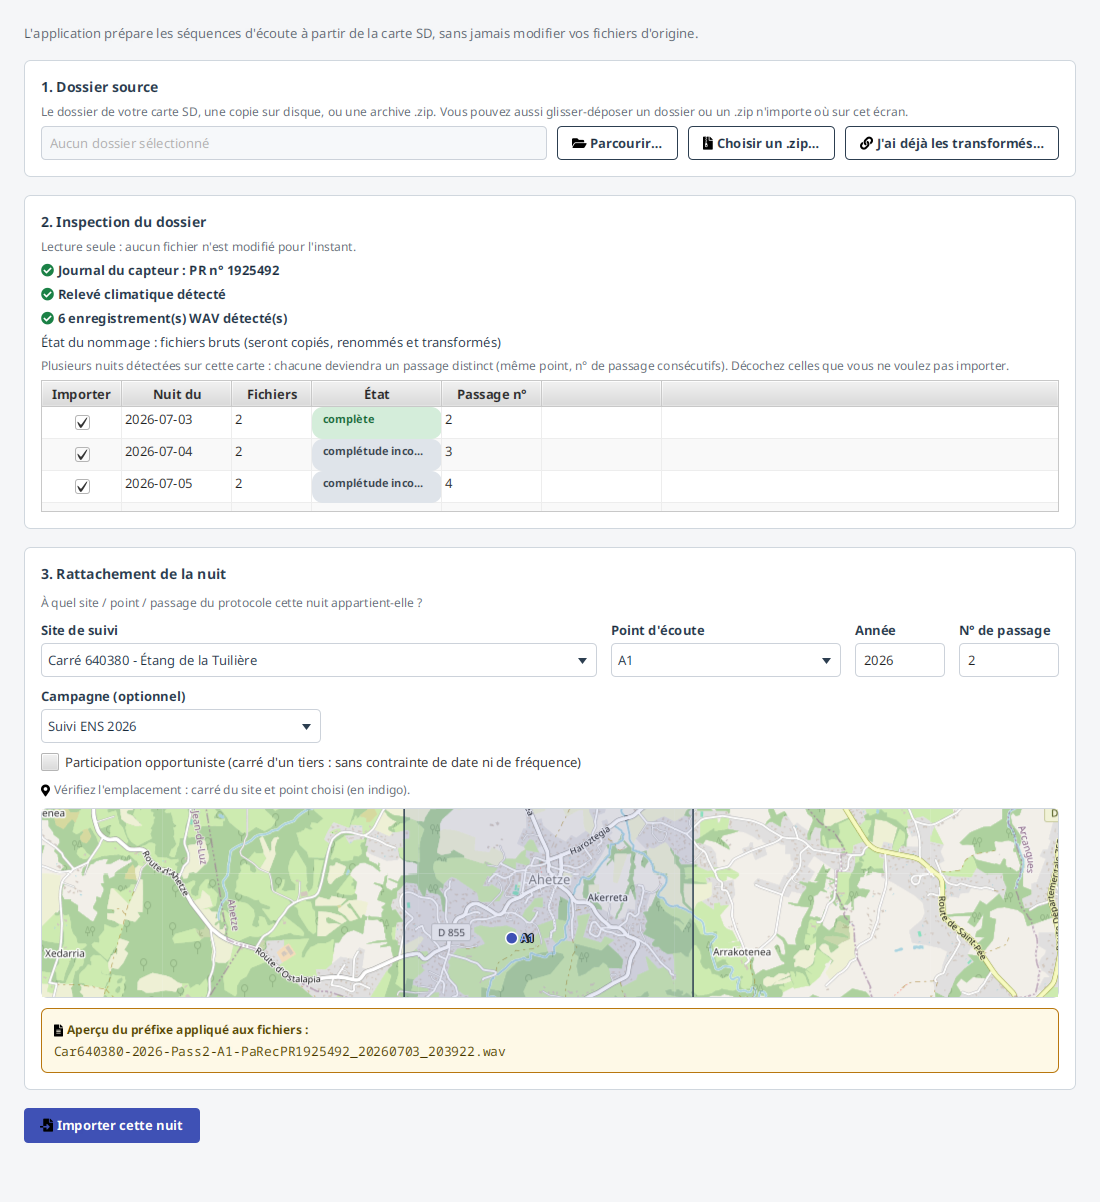
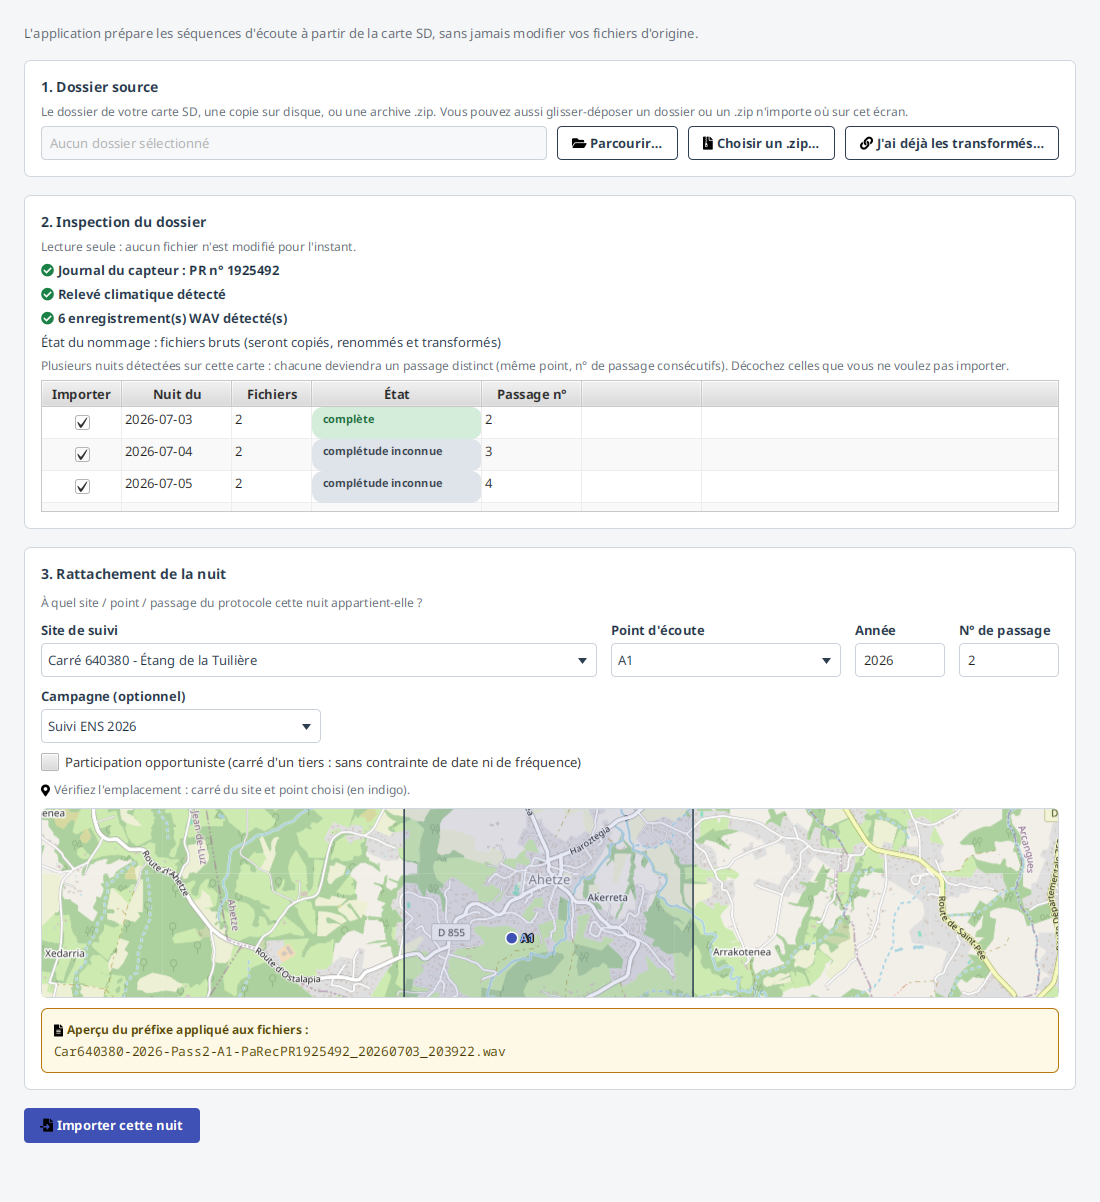
fix(importation): afficher le badge de complétude en entier (#5510)
La table des nuits tronquait « complétude inconnue » en « complétude
inco... », ce qui le rendait difficile à distinguer d'une nuit
incomplète. La colonne État laisse maintenant le libellé entier visible
sans survol.

Le test JavaFX vérifie les trois libellés attendus, leur texte
réellement dessiné et la largeur disponible entre les marges de chaque
cellule. Il reproduit la troncature avec l'ancienne largeur. La page de
retour utilisateur décrit désormais le correctif et précise que le clip
antérieur conserve l'ancien rendu. Tests TableNuitsTest, NuitVMBadgeTest
et ZoneNuitsTest validés ; batterie locale : 56 gardes, aucun refus.
Capture d'import régénérée et inspectée.

Closes #5111
Rattaché à #5504.

| Avant | Après |
|---|---|
| ![Le badge est
tronqué](https://github.com/echonuit/vigiechiro-pr-companion/blob/8d2353d5a233b17e714928ecd810321396523b89/.github/assets/apercu-import-multi-nuits.png?raw=true)
| ![Le badge est entièrement
lisible](https://github.com/echonuit/vigiechiro-pr-companion/blob/0870c2ada/.github/assets/apercu-import-multi-nuits.png?raw=true)
|

La colonne État montre « complétude inconnue » en entier dans les deux
lignes concernées.

Changed region(s): [[0.3709, 0.3078, 0.4945, 0.4309], [0.34, 0.3078, 0.3709, 0.3386]]

diff --git a/src/test/java/fr/univ_amu/iut/importation/view/TableNuitsTest.java b/src/test/java/fr/univ_amu/iut/importation/view/TableNuitsTest.java
@@ -1,0 +1,60 @@
+package fr.univ_amu.iut.importation.view;
+
+import static org.assertj.core.api.Assertions.assertThat;
+
+import fr.univ_amu.iut.commun.model.Completude;
+import fr.univ_amu.iut.commun.view.Habillage;
+import fr.univ_amu.iut.importation.model.NuitDetectee;
+import fr.univ_amu.iut.importation.viewmodel.NuitVM;
+import java.time.LocalDate;
+import java.util.List;
+import javafx.collections.FXCollections;
+import javafx.scene.Scene;
+import javafx.scene.control.TableCell;
+import javafx.scene.layout.StackPane;
+import javafx.scene.text.Text;
+import org.junit.jupiter.api.Test;
+import org.junit.jupiter.api.extension.ExtendWith;
+import org.testfx.framework.junit5.ApplicationExtension;
+
+/// Vérifie le texte dessiné dans les cellules : leur valeur peut être entière malgré une ellipse.
+@ExtendWith(ApplicationExtension.class)
+class TableNuitsTest {
+
+    @Test
+    void les_trois_completudes_restent_lisibles() {
+        LocalDate date = LocalDate.of(2026, 7, 3);
+        var nuits = FXCollections.<NuitVM>observableArrayList();
+        for (Completude etat : Completude.values()) {
+            nuits.add(new NuitVM(new NuitDetectee(
+                    date, date.atTime(21, 0), date.plusDays(1).atTime(6, 0), List.of(), etat, null, List.of())));
+        }
+        var table = TableNuits.creer(nuits);
+        StackPane racine = new StackPane(table);
+        Scene scene = Habillage.scene(racine);
+        racine.resize(1020, 180);
+        scene.getRoot().applyCss();
+        scene.getRoot().layout();
+
+        var cellules = table.lookupAll(".table-cell").stream()
+                .filter(TableCell.class::isInstance)
+                .map(TableCell.class::cast)
+                .filter(cellule -> cellule.getStyleClass().contains("badge") && !cellule.isEmpty())
+                .toList();
+        assertThat(cellules)
+                .extracting(cellule -> cellule.getText())
+                .containsExactlyInAnyOrder("complète", "incomplète", "complétude inconnue");
+        for (var cellule : cellules) {
+            Text rendu = (Text) cellule.lookup(".text");
+            assertThat(rendu.getText())
+                    .as("le badge « %s » doit rester lisible sans survol", cellule.getText())
+                    .isEqualTo(cellule.getText());
+            double largeurDisponible = cellule.getWidth()
+                    - cellule.getInsets().getLeft()
+                    - cellule.getInsets().getRight();
+            assertThat(rendu.getLayoutBounds().getWidth())
+                    .as("le texte du badge doit tenir entre les marges de la cellule")
+                    .isLessThanOrEqualTo(largeurDisponible);
+        }
+    }
+}

diff --git a/src/main/java/fr/univ_amu/iut/importation/view/TableNuits.java b/src/main/java/fr/univ_amu/iut/importation/view/TableNuits.java
@@ -100,8 +100,8 @@ final class TableNuits {
     /// le marqueur des polices de la machine (#2036). Le motif quitte au passage la cellule pour
     /// l'infobulle : il pouvait être long, et une colonne de 190 px le tronquait.
     private static TableColumn<NuitVM, String> colonneEtat() {
-        // 190 px calibraient « ⚠ incomplète (carte SD pleine) » ; il ne reste qu'un mot.
-        TableColumn<NuitVM, String> colonne = colonneTexte("État", 130, NuitVM::badge);
+        // Le libellé « complétude inconnue » doit rester distinct d'« incomplète », sans survol.
+        TableColumn<NuitVM, String> colonne = colonneTexte("État", 170, NuitVM::badge);
         // L'infobulle ne porte plus le seul motif : elle porte ce que le journal montrait avant
         // l'arrêt et la conduite à tenir (#4990). Le motif restait un fait sans suite.
         colonne.setCellFactory(c -> ColonneBadge.cellule(NuitVM::classeBadge, NuitVM::explication));

diff --git a/dev-docs/retours/2189-ce-que-ton-retour-a-produit.md b/dev-docs/retours/2189-ce-que-ton-retour-a-produit.md
@@ -95,8 +95,8 @@ lue comme une preuve, et le badge le plus rassurant allait à la nuit dont on sa
 
 **Ce que l'image et le clip montrent** : la première nuit est **complète**, les deux suivantes de
 **complétude inconnue**. C'est la distinction qui compte.
-**Ce qu'elle ne montre pas** : le libellé entier du second badge, que la colonne tronque en
-« complétude inco… ». C'est un défaut connu, ouvert, et il n'est pas corrigé.
+La capture montre désormais le libellé « complétude inconnue » en entier : la colonne a été
+élargie par le correctif #5111. Le clip, tourné avant ce correctif, garde l'ancien libellé tronqué.
 
 ### 6 · Une carte protégée en écriture le dit
 
